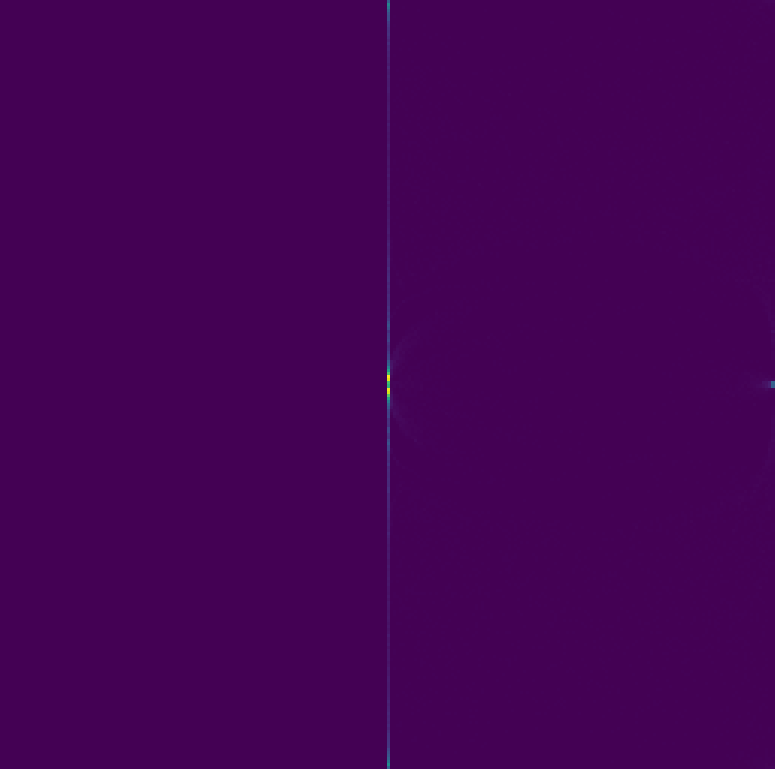
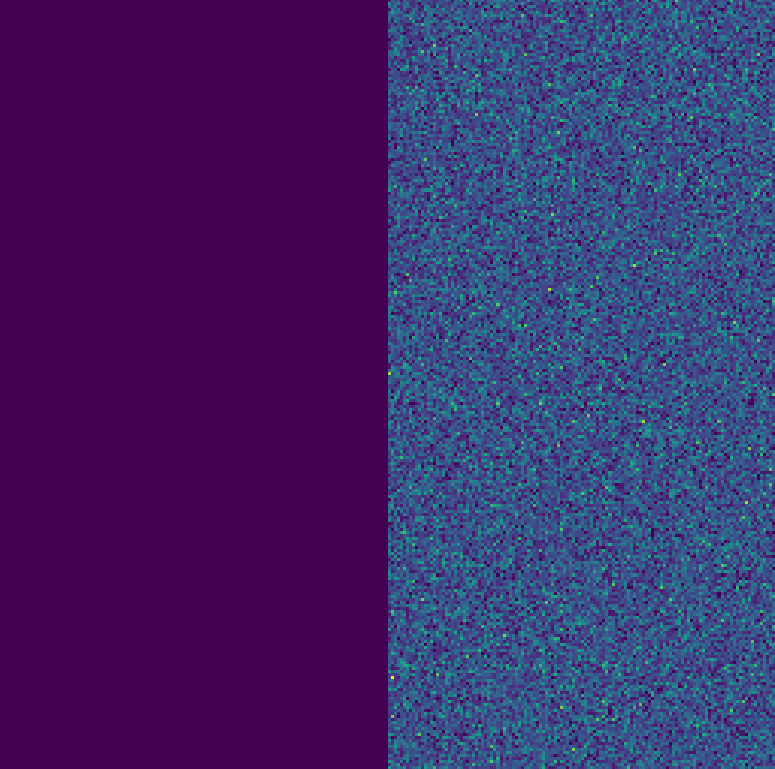
US1.45-1 BG1.11

diff --git a/unit_test/US1.45/test_absunif.py b/unit_test/US1.45/test_absunif.py
@@ -1,0 +1,172 @@
+import sys
+sys.path.append(".")
+
+import argparse
+from survae.flows import *
+from survae.transforms import Abs, Scale, Permute, ElementAbs
+from survae.nn.nets import MLP
+import survae
+from survae.data.datasets.toy import *
+from survae.distributions import StandardNormal, Bernoulli, StandardUniform
+from survae.distributions import *
+from jax import random
+import jax.numpy as jnp 
+from flax import optim
+from matplotlib import pyplot as plt
+import ipdb
+from jax.config import config
+config.update("jax_debug_nans", True)
+
+parser = argparse.ArgumentParser()
+
+# Data params
+parser.add_argument('--dataset', type=str, default='eightgaussians', choices={'checkerboard', 'corners', 'fourcircle', 'gaussian', 'eightgaussians'})
+parser.add_argument('--train_samples', type=int, default=128*1000)
+parser.add_argument('--test_samples', type=int, default=128*1000)
+
+# Model params
+parser.add_argument('--num_flows', type=int, default=4)
+parser.add_argument('--actnorm', type=eval, default=False)
+parser.add_argument('--affine', type=eval, default=True)
+parser.add_argument('--scale_fn', type=str, default='exp', choices={'exp', 'softplus', 'sigmoid', 'tanh_exp'})
+parser.add_argument('--hidden_units', type=eval, default=[200, 100])
+parser.add_argument('--activation', type=str, default='relu', choices={'relu', 'elu', 'gelu'})
+parser.add_argument('--range_flow', type=str, default='logit', choices={'logit', 'softplus'})
+
+# Train params
+parser.add_argument('--epochs', type=int, default=10)
+parser.add_argument('--batch_size', type=int, default=128)
+parser.add_argument('--optimizer', type=str, default='adam', choices={'adam', 'adamax'})
+parser.add_argument('--lr', type=float, default=1e-3)
+parser.add_argument('--device', type=str, default='cpu')
+
+# Plot params
+parser.add_argument('--num_samples', type=int, default=128*1000)
+parser.add_argument('--grid_size', type=int, default=500)
+parser.add_argument('--pixels', type=int, default=1000)
+parser.add_argument('--dpi', type=int, default=96)
+parser.add_argument('--clim', type=float, default=0.05)
+# Check the DPI of your monitor at: https://www.infobyip.com/detectmonitordpi.php
+
+args = parser.parse_args()
+
+# Random PRNG
+rng = random.PRNGKey(0)
+rng, key = random.split(rng)
+
+# Data declaration
+train_data, test_data = None, None
+if args.dataset == 'checkerboard':
+	train_data = CheckerBoard(args.train_samples).get_data()
+	test_data = CheckerBoard(args.test_samples).get_data()
+elif args.dataset == 'corners':
+	train_data = Corners(args.train_samples).get_data()
+	test_data = Corners(args.test_samples).get_data()
+elif args.dataset == 'fourcircle':
+	train_data = FourCirclesDataset(args.train_samples).get_data()
+	test_data = FourCirclesDataset(args.test_samples).get_data()
+elif args.dataset == 'gaussian':
+	train_data = Gaussian(args.train_samples).get_data()
+	test_data = Gaussian(args.test_samples).get_data()
+elif args.dataset == 'eightgaussians':
+	train_data = EightGaussiansDataset(args.train_samples).get_data()
+	test_data = EightGaussiansDataset(args.test_samples).get_data()
+
+# data = EightGaussiansDataset(num_points=1000).get_data()
+
+# Define Transforms
+def init(key, shape, dtype=np.float32):
+    return random.uniform(key, shape, dtype, minval=-np.sqrt(1/shape[0]), maxval=np.sqrt(1/shape[0])) 
+
+class Classifier(nn.Module):
+    kernel_init: Callable
+    bias_init: Callable
+    hidden_layer: int
+    output_layer: int
+
+    @staticmethod
+    def _setup(hidden_layer, output_layer, kernel_init=init, bias_init=init):
+        return partial(Classifier, kernel_init, bias_init, hidden_layer, output_layer)
+
+    @nn.compact
+    def __call__(self, x):
+        x = nn.Dense(features=self.hidden_layer[0], kernel_init=init, bias_init=init)(x)
+        x = nn.relu(x)
+        x = nn.Dense(features=self.hidden_layer[1], kernel_init=init, bias_init=init)(x)
+        x = nn.relu(x)
+        x = nn.Dense(features=self.output_layer, kernel_init=init, bias_init=init)(x)
+        return x
+
+classifier = Classifier._setup([200, 100] , 1)
+element_abs = ElementAbs._setup(Bernoulli, classifier, 0)
+
+transforms = [element_abs]
+transforms += [Shift._setup(jnp.array([0.0, 4.0])), Scale._setup(jnp.array([1/4, 1/8]))]
+
+
+# Construct Flow
+absflow = AbsFlow(base_dist=StandardUniform, transforms=transforms, latent_size=(2,))
+params = absflow.init(key, rng, train_data[:2])['params']
+
+
+# Plot the model samples before training
+if args.dataset == 'face_einstein':
+    bounds = [[0, 1], [0, 1]]
+else:
+    bounds = [[-4, 4], [-4, 4]]
+
+before_train = absflow.apply({"params":params}, rng, args.train_samples, method=absflow.sample)
+plt.figure(figsize=(args.pixels/args.dpi, args.pixels/args.dpi), dpi=args.dpi)
+plt.hist2d(before_train[...,0], before_train[...,1], bins=256, range=bounds)
+plt.xlim(bounds[0])
+plt.ylim(bounds[1])
+plt.axis('off')
+plt.savefig('./unit_test/US1.45/{}_abs_flow_samples_before_training.png'.format(args.dataset), bbox_inches = 'tight', pad_inches = 0)
+
+
+# Define Optimizer
+optimizer = optim.Adam(learning_rate=args.lr).create(params)
+
+
+@jax.jit
+def loss_fn(params, batch):
+    return -jnp.mean(absflow.apply({"params":params}, rng, batch, method=absflow.log_prob))
+
+@jax.jit
+def train_step(optimizer, batch):
+    grad_fn = jax.value_and_grad(loss_fn)
+    loss_val, grad = grad_fn(optimizer.target, batch)
+    # print(grad)
+    optimizer = optimizer.apply_gradient(grad)
+    return optimizer, loss_val
+
+
+# Training loop
+for e in range(args.epochs):
+    batch_loss, counter = 0, 0
+    # ipdb.set_trace()
+    for batch in range(int(args.train_samples/args.batch_size)):
+        train_batch = train_data[batch*args.batch_size:(batch+1)*args.batch_size]
+        optimizer, loss_val = train_step(optimizer, np.round(train_batch, 4))
+        batch_loss += loss_val
+        counter += 1
+    batch_loss /= counter
+    if e % 5 == 0 or e == args.epochs - 1:
+        validation_loss = loss_fn(optimizer.target, test_data)
+        print('epoch %s/%s:' % (e, args.epochs), 'loss = %.3f' % batch_loss, 'val_loss = %0.3f' % validation_loss)
+
+after_train = absflow.apply({"params":optimizer.target}, rng, args.test_samples, method=absflow.sample)
+# plt.scatter(after_train[:, 0], after_train[:, 1], cmap="bwr", alpha=0.5, s=1)
+# plt.savefig('./experiments/toy/figures/after_train.png')
+
+
+plt.figure(figsize=(args.pixels/args.dpi, args.pixels/args.dpi), dpi=args.dpi)
+plt.hist2d(after_train[...,0], after_train[...,1], bins=256, range=bounds)
+plt.xlim(bounds[0])
+plt.ylim(bounds[1])
+plt.axis('off')
+plt.savefig('./unit_test/US1.45/{}_abs_flow_samples_after_training.png'.format(args.dataset), bbox_inches = 'tight', pad_inches = 0)
+
+
+
+print("Done!")

diff --git a/survae/transforms/surjective/element_abs.py b/survae/transforms/surjective/element_abs.py
@@ -4,29 +4,30 @@ from survae.transforms.surjective import Surjective
 from survae.distributions import *
 from jax import numpy as jnp, random
 from typing import Union, Tuple
-from survae.utils.tensors import sum_except_batch
+from survae.utils.tensors import sum_except_batch, bce_w_logits
+import ipdb
 
+# @jax.vmap
+# def bce_w_logits(x, y, weight=None, average=True):
+#     """
+#     Binary Cross Entropy Loss
+#     Should be numerically stable, built based on: https://github.com/pytorch/pytorch/issues/751
+#     :param x: Input tensor
+#     :param y: Target tensor
+#     :param weight: Vector of example weights
+#     :param average: Boolean to average resulting loss vector
+#     :return: Scalar value
+#     """
+#     max_val = jnp.clip(x, 0, None)
+#     loss = x - x * y + max_val + jnp.log(jnp.exp(-max_val) + jnp.exp((-x - max_val)))
 
-def bce_w_logits(x, y, weight=None, average=True):
-    """
-    Binary Cross Entropy Loss
-    Should be numerically stable, built based on: https://github.com/pytorch/pytorch/issues/751
-    :param x: Input tensor
-    :param y: Target tensor
-    :param weight: Vector of example weights
-    :param average: Boolean to average resulting loss vector
-    :return: Scalar value
-    """
-    max_val = jnp.clip(x, 0, None)
-    loss = x - x * y + max_val + jnp.log(jnp.exp(-max_val) + jnp.exp((-x - max_val)))
-
-    if weight is not None:
-        loss = loss * weight
-    # print("here", x, y)
-    if average:
-        return loss.mean()
-    else:
-        return loss.sum()
+#     if weight is not None:
+#         loss = loss * weight
+#     # print("here", x, y)
+#     if average:
+#         return loss.mean()
+#     else:
+#         return loss.sum()
 
 
 
@@ -47,14 +48,16 @@ class ElementAbs(nn.Module, Surjective):
 		self._classifier = self.classifier()
 
 	def forward(self, rng, x):
-		s = (jnp.sign(x[:, self.element])+1)/2
-		a = jnp.array([x[:, 0]])
-		b = jnp.abs(jnp.array([x[:, self.element]]))
-		z = jnp.concatenate((a.T, b.T), axis=1)
+		# ipdb.set_trace()
+		_s = (jnp.sign(x[:, self.element])+1)/2
+		_z = x
+		_z = jax.ops.index_update(_z, jax.ops.index[:, self.element], jnp.abs(x[:, self.element]))
 		# print(self._classifier(z))
-		logit_pi = self._classifier(z)
-		ldj = sum_except_batch(-bce_w_logits(logit_pi, s))
-		return z, ldj   
+		logit_pi = self._classifier(_z)
+		# print(logit_pi)
+		_bce_w_logits = jax.vmap(bce_w_logits)
+		ldj = sum_except_batch(-_bce_w_logits(logit_pi, _s))
+		return _z, ldj 
 
 	def inverse(self, rng, z):
 		logit_pi = self._classifier(z)

diff --git a/unit_test/US1.45/test_bce.py b/unit_test/US1.45/test_bce.py
@@ -1,0 +1,44 @@
+import jax
+from jax import numpy as jnp, random
+import sys
+sys.path.append(".")
+from survae.nn.nets import MLP
+import survae
+from flax import linen as nn
+import numpy as np
+import torch.nn.functional as F
+import ipdb
+import torch
+
+@jax.vmap
+def binary_cross_entropy_with_logits(logits, labels):
+  logits = nn.log_sigmoid(logits)
+  return -jnp.sum(labels * logits + (1. - labels) * jnp.log(-jnp.expm1(logits)))
+
+
+rng = random.PRNGKey(7)
+rng, key = random.split(rng)
+x = random.normal(rng, (10,1))
+
+s = (jnp.sign(x[:,0])+1)/2
+x = jnp.abs(x)
+print("==============================")
+print(x)
+print(s)
+print(survae.bce_w_logits(x,s))
+print(survae.bce_w_logits(jnp.zeros(x.shape),s))
+print("==============================")
+
+print(binary_cross_entropy_with_logits(x,s))
+print(binary_cross_entropy_with_logits(jnp.zeros(x.shape),s))
+
+
+
+print("==============================")
+_x = torch.from_numpy(np.array(x))
+_s = torch.from_numpy(np.array(s))
+print(_x)
+print(_s)
+print(F.binary_cross_entropy_with_logits(_x.reshape(-1), _s.reshape(-1), reduction='none'))
+print(F.binary_cross_entropy_with_logits(torch.zeros((_x.shape[0],)), _s.reshape(-1), reduction='none'))
+print("==============================")

diff --git a/survae/utils/tensors.py b/survae/utils/tensors.py
@@ -1,5 +1,28 @@
+import jax.numpy as jnp
+
 def sum_except_batch(x, num_dims=1):
     return x.reshape(*x.shape[:num_dims], -1).sum(-1)
 
 def mean_except_batch(x, num_dims=1):
     return x.reshape(*x.shape[:num_dims], -1).mean(-1)
+
+def bce_w_logits(x, y, weight=None, average=True):
+    """
+    Binary Cross Entropy Loss
+    Should be numerically stable, built based on: https://github.com/pytorch/pytorch/issues/751
+    :param x: Input tensor
+    :param y: Target tensor
+    :param weight: Vector of example weights
+    :param average: Boolean to average resulting loss vector
+    :return: Scalar value
+    """
+    max_val = jnp.clip(-x, 0, None)
+    loss = x - x * y + max_val + jnp.log(jnp.exp(-max_val) + jnp.exp((-x - max_val)))
+
+    if weight is not None:
+        loss = loss * weight
+    # print("here", x, y)
+    if average:
+        return loss.mean()
+    else:
+        return loss.sum()

diff --git a/survae/distributions/uniform.py b/survae/distributions/uniform.py
@@ -1,0 +1,22 @@
+from typing import Tuple, Any
+from jax import numpy as jnp, random
+from flax import linen as nn
+from survae.distributions import Distribution
+from survae.utils import *
+from functools import partial
+from jax.scipy.stats import norm
+
+
+class StandardUniform(nn.Module, Distribution):
+
+    @classmethod
+    def log_prob(cls, x, *args, **kwargs):
+        lb = mean_except_batch(x > 0) 
+        ub = mean_except_batch(x < 1)
+        return jnp.log(lb*ub)
+
+    @classmethod
+    def sample(cls, rng, num_samples, params):
+        shape = params.shape[-1]
+        rng, _ = random.split(rng)
+        return random.uniform(rng, (num_samples,)+(shape,))

diff --git a/unit_test/US1.45/test_uniform.py b/unit_test/US1.45/test_uniform.py
@@ -1,0 +1,22 @@
+import jax
+from jax import numpy as jnp, random
+import sys
+sys.path.append(".")
+from survae.nn.nets import MLP
+import survae
+from flax import linen as nn
+import numpy as np
+
+rng = random.PRNGKey(7)
+rng, key = random.split(rng)
+dist = survae.StandardUniform()
+sample = dist.sample(rng, num_samples=4, params=jnp.zeros((2,3)))
+print("==================== x[0] =========================")
+print(sample)
+
+logprob = dist.log_prob(sample)
+
+
+print("===============================================")
+print(logprob)
+# print("++++++++++++++++++++++++++++++")

diff --git a/survae/distributions/__init__.py b/survae/distributions/__init__.py
@@ -1,3 +1,4 @@
 from .base import Distribution
 from .normal import *
 from .bernoulli import *
+from .uniform import *
